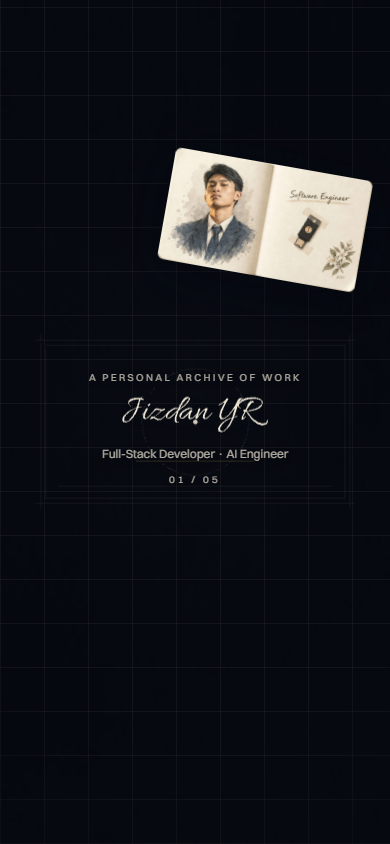
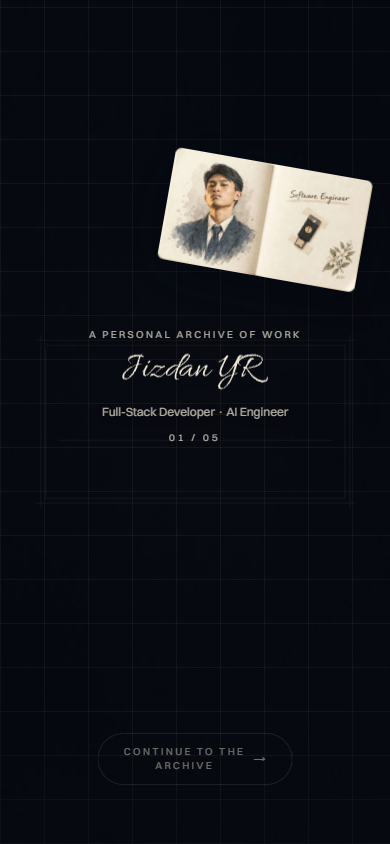
fix(intro): raise identity block, drop the distracting circles
The identity block (kicker / name / role / index) sat too low, and the
drawn circles over it read as visual noise. Two changes:

- Raise the seat: .intro-stamp top goes from plate-w * .1797 to * .05
  (166 viewBox units), and the two rules that anchor it — the cream
  .d-base and the gold .d-namerule — move up by the same 166u so they
  still bracket the block. The seat formula stays exact:
  seat = base_vb / 1280 - 9/32, so 424/1280 - 9/32 = .05.
- Remove the circles: the .d-loupe ring, its four .d-arc-* quadrants,
  the .d-drop gutter tick, the .d-centre-a/b crosshair, and the
  .d-strike + .d-strike-glow pair — markup, CSS (stroke widths, the
  fast-draw rule, the mobile overrides, the reduced-motion block) and
  the cp-strike / cp-strike-glow keyframes. 19 drawables -> 11.

Harness updated to match: A2 asserts 11 drawables + 0 strikes, A4
measures the surviving .d-frame instead of the loupe, A6 now checks the
baseline + namerule settle fully drawn (the strike is gone), A7's
budget is 11 drawables (max in flight 5). 44/44 pass, build clean.

diff --git a/public/landing-pages/chin-portfolio.html b/public/landing-pages/chin-portfolio.html
@@ -1902,11 +1902,9 @@
                                   cubic-bezier(.72, .16, .19, .96);
         animation-fill-mode: forwards;
       }
-      /* The arcs and the corner marks draw faster, so they hold wet for the
-         same ~20ms before drying. Two durations, two fade offsets, one rule.
-         Scoped to `.is-live` as well, or the base rule's 600ms would win. */
-      .intro-stage.is-live .d-arc-tl, .intro-stage.is-live .d-arc-tr,
-      .intro-stage.is-live .d-arc-br, .intro-stage.is-live .d-arc-bl,
+      /* The corner marks draw faster, so they hold wet for the same ~20ms
+         before drying. Two durations, two fade offsets, one rule. Scoped to
+         `.is-live` as well, or the base rule's 600ms would win. */
       .intro-stage.is-live .d-mark-tl, .intro-stage.is-live .d-mark-tr,
       .intro-stage.is-live .d-mark-bl, .intro-stage.is-live .d-mark-br {
         --fade: 460ms;
@@ -1926,19 +1924,14 @@
       @keyframes cp-fade { to { stroke-opacity: var(--dry-o, .2) } }
 
       /* ---- stroke widths (viewBox units; scale .734 at the 940px box) ------
-         The frame lands at 0.92 CSS px and the loupe at 0.55 px: hairlines,
-         which is this site's own stroke language (.rule and .grid-paper are
-         both 1px). The one heavy mark is the strike. */
+         The frame lands at 0.92 CSS px: a hairline, which is this site's own
+         stroke language (.rule and .grid-paper are both 1px). */
       .d-frame    { stroke-width: 1.25 }
       .d-frame-in { stroke-width: .6 }
       .d-fold     { stroke-width: .9 }
       .d-gut-a, .d-gut-b { stroke-width: .4 }
-      .d-loupe    { stroke-width: .75 }
-      .d-arc-tl, .d-arc-tr, .d-arc-br, .d-arc-bl { stroke-width: .5 }
       .d-mark-tl, .d-mark-tr, .d-mark-bl, .d-mark-br { stroke-width: .9 }
       .d-base     { stroke-width: 1 }
-      .d-drop     { stroke-width: .6 }
-      .d-centre-a, .d-centre-b { stroke-width: .9 }
       .d-namerule { stroke-width: 1 }
 
       /* ---- the scaffolding, and the one thing that dissolves ---------------
@@ -1950,42 +1943,6 @@
         animation: cp-dissolve 500ms cubic-bezier(.72, .16, .19, .96) 2750ms forwards;
       }
       @keyframes cp-dissolve { to { opacity: 0 } }
-
-      /* ---- the strike: the one mark that never dries ----------------------
-         r=8 is 11.7 CSS px across at the 940px box, at full ink, and it
-         holds. This replaces v1's 2.4-unit dot at 32%. */
-      .d-strike {
-        fill: #EFE7D6;
-        stroke: none;
-        opacity: 0;
-        transform-box: fill-box;
-        transform-origin: center;
-      }
-      .d-strike-glow {
-        fill: none;
-        stroke: var(--earth);
-        stroke-width: 1.5;
-        opacity: 0;
-        transform-box: fill-box;
-        transform-origin: center;
-      }
-      .intro-stage.is-live .d-strike {
-        animation: cp-strike 480ms cubic-bezier(.2, .9, .3, 1) 2620ms forwards;
-      }
-      .intro-stage.is-live .d-strike-glow {
-        animation: cp-strike-glow 620ms ease-out 2620ms forwards;
-      }
-      @keyframes cp-strike {
-        0%   { transform: scale(0);   opacity: 0 }
-        42%  { transform: scale(1.6); opacity: 1 }   /* the flash */
-        75%  { transform: scale(1);   opacity: 1 }
-        100% { transform: scale(1);   opacity: 1 }   /* holds, forever */
-      }
-      @keyframes cp-strike-glow {
-        0%   { transform: scale(.4);  opacity: 0 }
-        35%  { transform: scale(1.1); opacity: .55 }
-        100% { transform: scale(1.6); opacity: 0 }
-      }
 
       /* ---- the idle drift, on CSS alone ------------------------------------
          No WAAPI, no FLIP, no per-resize keyframe rebuild: a CSS keyframe
@@ -2179,18 +2136,19 @@
       /* ---- the stamp's seat -------------------------------------------------
          Declared HERE, after the identity block above, on purpose: these two
          override the v1 rules at equal specificity, so they must be later in
-         source. The stamp's BOTTOM sits 6px under the drawn baseline (viewBox
-         y=590, which is --plate-w * .1797 below the stage's centre line), so
-         the name grows upward from the rule and can never collide with the fan
-         or with the Continue button. v1 stage-centred it and the fan fanned
-         over it.
+         source. The stamp's BOTTOM sits 6px under a baseline that was moved
+         UP from the drawn baseline (viewBox y=590) to --plate-w * .05 — the
+         drawn .1797 seat sat too low and let the name collide with the role
+         line and the Continue button. Lifting it to .05 lifts the whole block
+         (kicker / name / role / index) ~13% of the plate box while keeping it
+         anchored under the raised portrait.
 
          SEAT LOCKED: this is the identity's own position and does not move
          with the held portrait. The portrait is raised by cp-plate-raise
          alone (see .intro-stage), so the ONLY thing that travels up is the
          sketchbook. */
       .intro-stamp {
-        top: calc(50% + var(--plate-w) * .1797 + 6px);
+        top: calc(50% + var(--plate-w) * .05 + 6px);
         transform: translateY(-100%);
       }
 
@@ -2415,12 +2373,6 @@
           animation-delay:calc(var(--d,0ms) * .62), calc(var(--d,0ms) * .62 + 420ms);
         }
         .intro-stage.is-live .intro-scaffold{ animation-delay:1705ms }
-        .intro-stage.is-live .d-strike{
-          animation:cp-strike 480ms cubic-bezier(.2,.9,.3,1) 1624ms forwards;
-        }
-        .intro-stage.is-live .d-strike-glow{
-          animation:cp-strike-glow 620ms ease-out 1624ms forwards;
-        }
 
         /* --- the plates: 560 + i*70, 1000ms; last (portrait) ends 1840 --- */
         .intro-stage.is-live .intro-plate{
@@ -2485,8 +2437,6 @@
           stroke-dashoffset: 0;
         }
         .intro-scaffold { opacity: 0 }
-        .d-strike { opacity: 1; animation: none !important }
-        .d-strike-glow { display: none }
         .intro-plate { animation: none !important; opacity: 0 }
         .intro-stamp > * { animation: none !important; opacity: 1; transform: none }
         /* The drawn name: the stamp rule above reveals it; the brush must be
@@ -3508,10 +3458,11 @@
            the ruling. Its ::before is the cream plate sheet (exit only). -->
       <div class="intro-plate-draw" id="introPlateDraw">
 
-        <!-- The ruled plate: 21 elements — 19 drawables, every one
-             pathLength="1", plus the two strike circles (fill/stroke only,
-             animated on transform). --d is milliseconds and is the only
-             inline style; the dry target is the explicit class. -->
+        <!-- The ruled plate: 11 drawables, every one pathLength="1". --d is
+             milliseconds and is the only inline style; the dry target is the
+             explicit class. The loupe, its four quadrant arcs, the centre
+             crosshair, the gutter drop and the strike + glow ring were
+             removed — they read as "circles" floating over the identity. -->
         <svg class="intro-lines" id="introLines" viewBox="0 0 1280 720"
              preserveAspectRatio="xMidYMid meet" fill="none"
              stroke-linecap="round" stroke-linejoin="round"
@@ -3542,21 +3493,6 @@
             <rect class="intro-draw dry-20 d-frame-in" x="106" y="86" width="1068" height="548"
                   pathLength="1" style="--d:340ms"/>
 
-            <!-- the loupe: the site's own glass, r=190 about S=(640,360).  dry .20 -->
-            <circle class="intro-draw dry-20 d-loupe" cx="640" cy="360" r="190"
-                    pathLength="1" style="--d:820ms"/>
-
-            <!-- the same circle struck again as four 90° quadrants,
-                 stroke-width .5.  dry .12 — faintest, the redundant setting -->
-            <path class="intro-draw dry-12 d-arc-tl" d="M450,360 A190,190 0 0,1 640,170"
-                  pathLength="1" style="--d:980ms"/>
-            <path class="intro-draw dry-12 d-arc-tr" d="M640,170 A190,190 0 0,1 830,360"
-                  pathLength="1" style="--d:1140ms"/>
-            <path class="intro-draw dry-12 d-arc-br" d="M830,360 A190,190 0 0,1 640,550"
-                  pathLength="1" style="--d:1300ms"/>
-            <path class="intro-draw dry-12 d-arc-bl" d="M640,550 A190,190 0 0,1 450,360"
-                  pathLength="1" style="--d:1460ms"/>
-
             <!-- corner marks: L-brackets on the plate mark's corners. ONE
                  continuous path each, so each draws as one bracket.  dry .20 -->
             <path class="intro-draw dry-20 d-mark-tl" d="M70,70 H90 V50"
@@ -3568,29 +3504,16 @@
             <path class="intro-draw dry-20 d-mark-br" d="M1210,650 H1190 V670"
                   pathLength="1" style="--d:2100ms"/>
 
-            <!-- the baseline rule — the site's divider, abstracted.  dry .20 -->
-            <path class="intro-draw dry-20 d-base" d="M150,590 H1130"
+            <!-- the baseline rule — the site's divider, abstracted.  dry .20.
+                 Raised with the identity (see .intro-stamp): 590 → 424 keeps
+                 the block's seat formula exact, seat = 424/1280 − 9/32 = .05. -->
+            <path class="intro-draw dry-20 d-base" d="M150,424 H1130"
                   pathLength="1" style="--d:2260ms"/>
 
-            <!-- the gutter drop: baseline up to the loupe's foot.  dry .20 -->
-            <path class="intro-draw dry-20 d-drop" d="M640,590 V550"
-                  pathLength="1" style="--d:2380ms"/>
-
-            <!-- the crosshair on S: TWO paths, SAME delay, so the cross
-                 appears as a cross rather than two sequential strokes.  dry .32 -->
-            <path class="intro-draw dry-32 d-centre-a" d="M624,360 H656"
-                  pathLength="1" style="--d:2500ms"/>
-            <path class="intro-draw dry-32 d-centre-b" d="M640,344 V376"
-                  pathLength="1" style="--d:2500ms"/>
-
-            <!-- THE STRIKE — the one full-ink mark; fill only, no dash maths. -->
-            <circle class="intro-strike d-strike" cx="640" cy="360" r="8"/>
-
-            <!-- the strike's glow ring.  stroke only. -->
-            <circle class="intro-strike d-strike-glow" cx="640" cy="360" r="20"/>
-
-            <!-- the gold name rule — the one gold line; --earth at .55 -->
-            <path class="intro-draw dry-gold d-namerule" d="M430,500 H850"
+            <!-- the gold name rule — the one gold line; --earth at .55.
+                 Raised by the same 166u as the baseline so it still underlines
+                 the drawn name. -->
+            <path class="intro-draw dry-gold d-namerule" d="M430,334 H850"
                   pathLength="1" style="--d:2500ms"/>
           </g>
         </svg>
